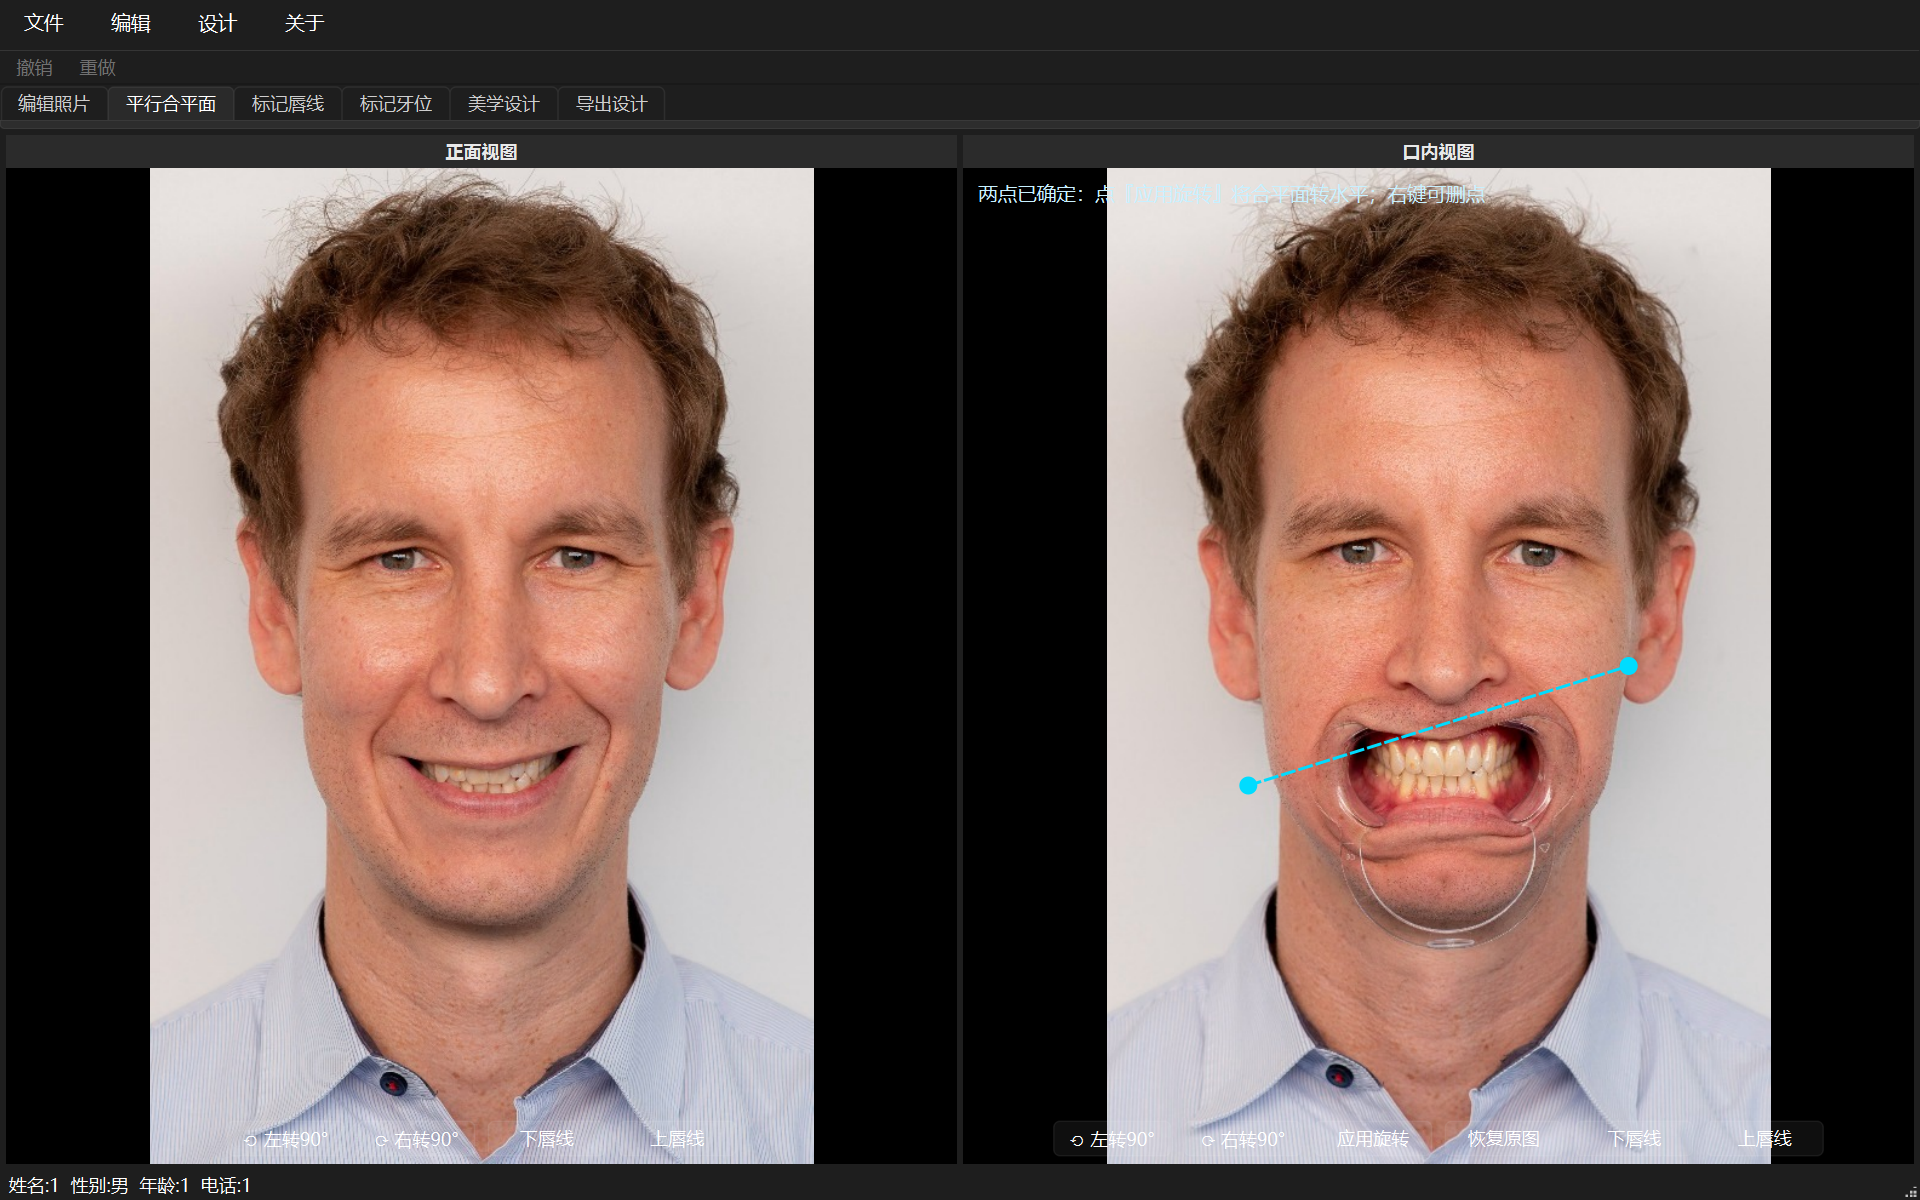
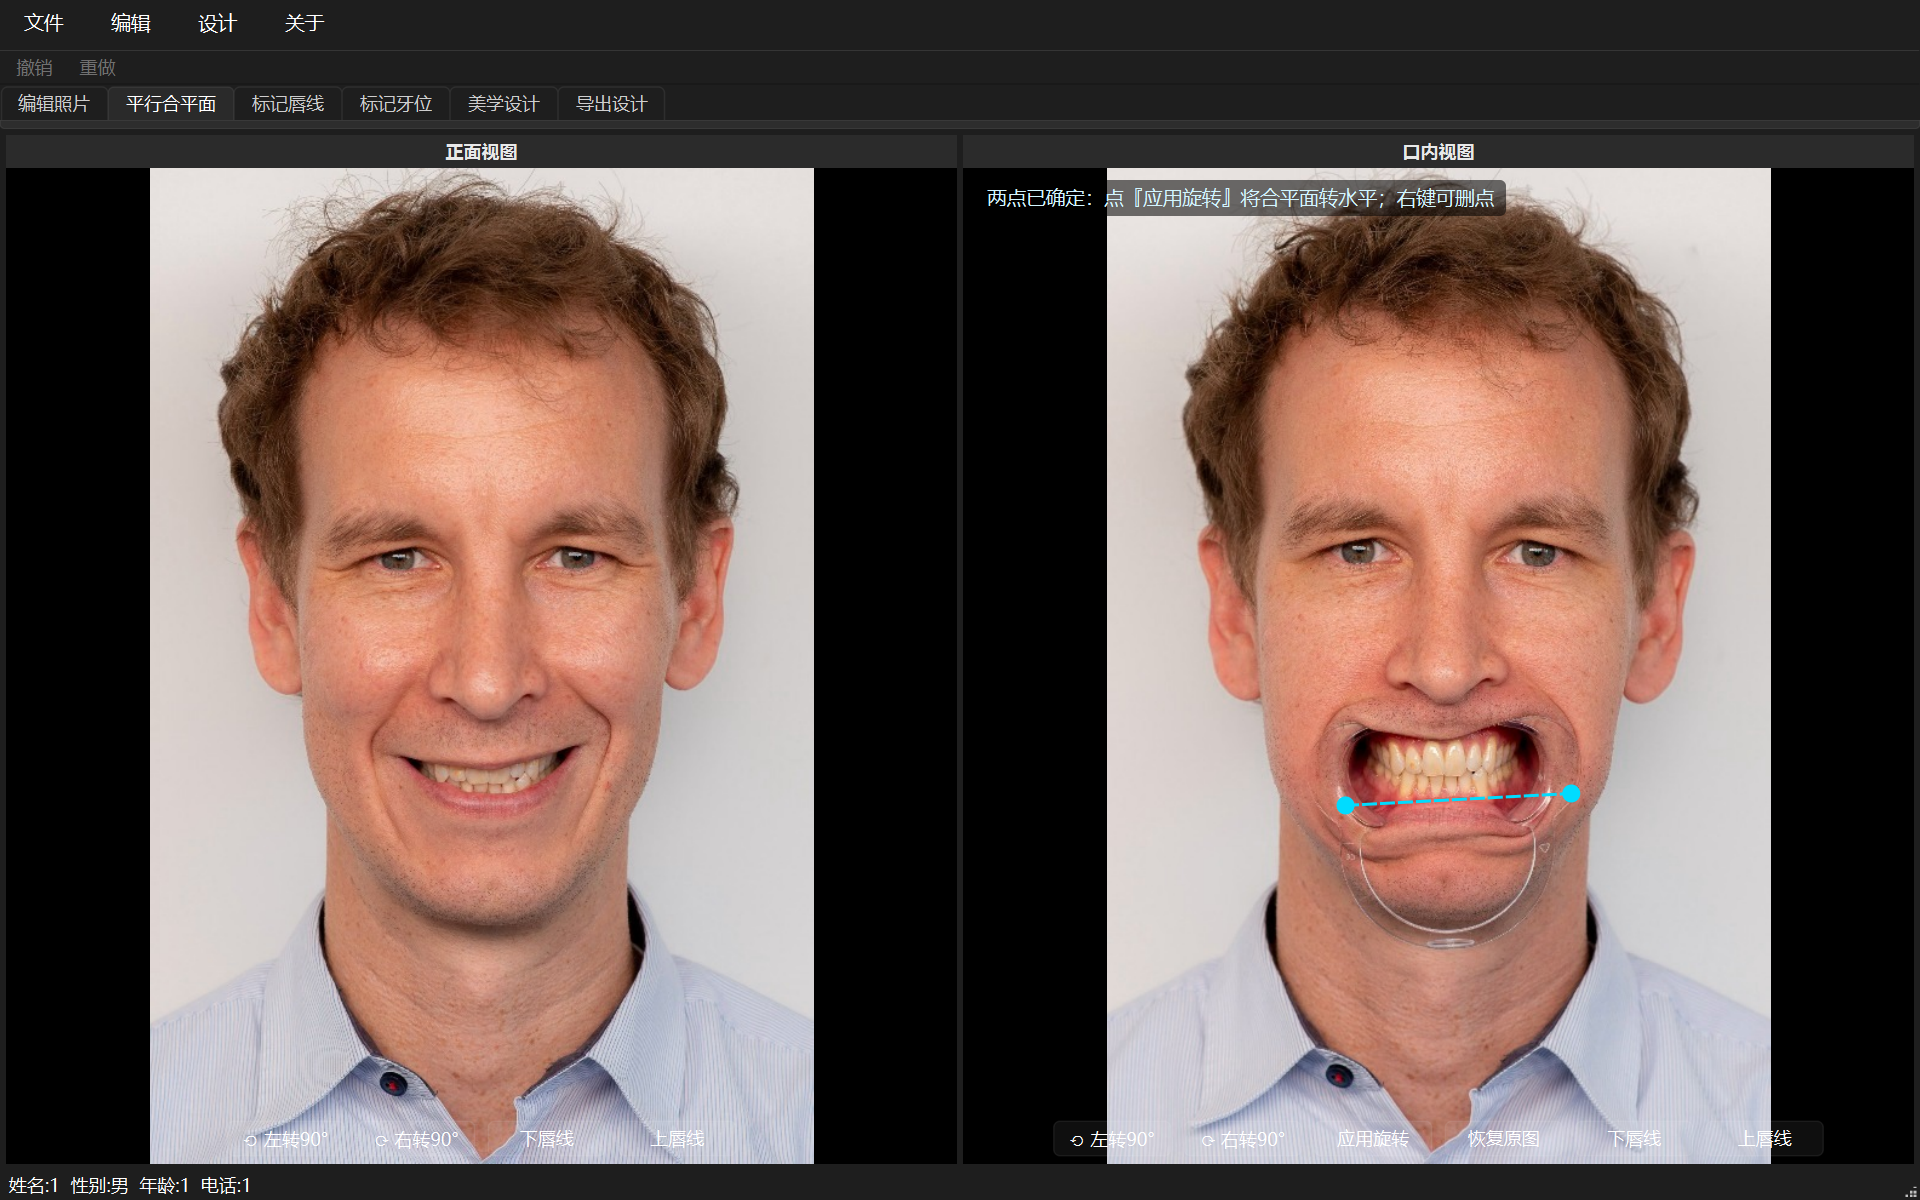
v1.7 修复应用旋转后照片变蓝（QPixmap RGB32 按 RGBA 解析导致红蓝互换，同时影响导出与检测取色）；流程示例合平面两点改为沿切缘；提示文字加底衬

diff --git a/dedd_py/dedd/widgets/main_window.py b/dedd_py/dedd/widgets/main_window.py
@@ -21,7 +21,7 @@ from PySide6.QtWidgets import (QDialog, QFileDialog, QLabel, QMainWindow,
                                QToolBar, QVBoxLayout, QWidget)
 
 from .. import constants as C
-from ..image_utils import crop, np_to_qimage, qimage_bytes, qimage_bytes_to_rgba
+from ..image_utils import crop, np_to_qimage, qimage_bytes, qimage_to_np
 from ..models import BasicInfo, ProjData, ToothData, mirror_teeth
 from ..project_io import import_depx, load_project, save_project
 from .new_project_dialog import NewProjectDialog
@@ -649,7 +649,7 @@ class MainWindow(QMainWindow):
             # 必须用原始图像分辨率做检测：render_pre_np() 是「窗口大小」的渲染结果，
             # 用它检测再按图像坐标画框会整体错位（实测框飘到眼睛/额头）
             boxes = detect_teeth_intraoral(np.ascontiguousarray(
-                qimage_bytes_to_rgba(bp.get_image())[:, :, :3]))
+                qimage_to_np(bp.get_image())[:, :, :3]))
             if boxes:
                 bp.set_marked_teeth([ToothData(site=s, x1=a, y1=b, x2=c, y2=d, length=0)
                                      for s, a, b, c, d in boxes])
@@ -659,7 +659,7 @@ class MainWindow(QMainWindow):
         fp = self.workspace.front_panel
         if fp.has_image():
             boxes = detect_teeth_front(np.ascontiguousarray(
-                qimage_bytes_to_rgba(fp.get_image())[:, :, :3]))
+                qimage_to_np(fp.get_image())[:, :, :3]))
             if boxes:
                 fp.set_marked_teeth([ToothData(site=s, x1=a, y1=b, x2=c, y2=d, length=0)
                                      for s, a, b, c, d in boxes])

diff --git a/dedd_py/dedd/widgets/unify_panel.py b/dedd_py/dedd/widgets/unify_panel.py
@@ -138,15 +138,23 @@ class UnifyPanel(QWidget):
         painter.setPen(Qt.NoPen)
         for p in self.points:
             painter.drawEllipse(p, PT_RADIUS, PT_RADIUS)
-        painter.setPen(QColor(200, 240, 255))
+        if len(self.points) == 0:
+            hint = "沿咬合平面点第 1 点（如牙列左侧）"
+        elif len(self.points) == 1:
+            hint = "沿咬合平面点第 2 点（如牙列右侧），然后点『应用旋转』"
+        else:
+            hint = "两点已确定：点『应用旋转』将合平面转水平；右键可删点"
+        from PySide6.QtCore import QRectF
         from PySide6.QtGui import QFont
         f = QFont()
         f.setPointSize(10)
         painter.setFont(f)
-        if len(self.points) == 0:
-            painter.drawText(10, 22, "沿咬合平面点第 1 点（如牙列左侧）")
-        elif len(self.points) == 1:
-            painter.drawText(10, 22, "沿咬合平面点第 2 点（如牙列右侧），然后点『应用旋转』")
-        else:
-            painter.drawText(10, 22, "两点已确定：点『应用旋转』将合平面转水平；右键可删点")
+        fm = painter.fontMetrics()
+        tw = fm.horizontalAdvance(hint)
+        box = QRectF(8, 8, tw + 16, fm.height() + 8)
+        painter.setPen(Qt.NoPen)
+        painter.setBrush(QColor(0, 0, 0, 140))      # 半透明底，避免压在照片上看不清
+        painter.drawRoundedRect(box, 4, 4)
+        painter.setPen(QColor(210, 245, 255))
+        painter.drawText(box.adjusted(8, 0, 0, 0), Qt.AlignVCenter, hint)
         painter.end()

diff --git a/dedd_py/dedd/widgets/work_panel.py b/dedd_py/dedd/widgets/work_panel.py
@@ -131,6 +131,10 @@ class WorkPanel(QWidget):
             w.setGeometry(g)
         self.button_bar.setGeometry(0, self.height() - 34, self.width(), 34)
 
+    def showEvent(self, e):
+        super().showEvent(e)
+        self._relayout_overlays()      # 首次显示时对齐覆盖层，避免提示文字压到标题条
+
     def _rotate(self, direction: str):
         img = self.image_view.get_image()
         if img is None:
@@ -365,7 +369,10 @@ class WorkPanel(QWidget):
                 if w.isVisible():
                     w.render(p, QPoint(0, 0))
         p.end()
-        img = pm.toImage()
+        from PySide6.QtGui import QImage
+        # QPixmap.toImage() 默认是 Format_RGB32（内存里是 BGRA），
+        # 直接按 RGBA 读会把红蓝互换（照片变蓝、检测也偏），这里统一转 RGB888
+        img = pm.toImage().convertToFormat(QImage.Format_RGB888)
         arr = qimage_bytes_to_rgba(img)
         rect = self.image_view.draw_rect()
         if rect.width() <= 1 or rect.height() <= 1:

diff --git a/dedd_py/dedd/export_render.py b/dedd_py/dedd/export_render.py
@@ -21,7 +21,7 @@ from typing import List, Optional, Sequence, Tuple
 import numpy as np
 from PIL import Image, ImageDraw, ImageFont
 
-from .image_utils import adjust_bright_yellow, qimage_bytes_to_rgba
+from .image_utils import adjust_bright_yellow, qimage_to_np
 from .teeth_templates import get_template
 from .widgets.adjust_panel import MODE_NONE, MODE_REAL
 
@@ -57,7 +57,9 @@ def view_before(panel) -> Optional[np.ndarray]:
     img = panel.get_image()
     if img is None or img.isNull():
         return None
-    arr = qimage_bytes_to_rgba(img)
+    arr = qimage_to_np(img)
+    if arr is None:
+        return None
     return np.ascontiguousarray(arr[:, :, :3])
 
 
@@ -77,7 +79,7 @@ def view_after(panel) -> Optional[np.ndarray]:
         tpl = get_template(it.site, kind)
         if tpl is None:
             continue
-        tpl_arr = qimage_bytes_to_rgba(tpl)
+        tpl_arr = qimage_to_np(tpl)
         if tpl_arr is None or tpl_arr.size == 0:
             continue
         rgb = tpl_arr[:, :, :3]

diff --git a/dedd_py/_demo_flow.py b/dedd_py/_demo_flow.py
@@ -41,11 +41,12 @@ shot("step01_编辑照片.png")
 w.tabs.setCurrentIndex(1)
 app.processEvents()
 bp = w.workspace.base_panel
-# 模拟沿合平面点两点（视图坐标，口内图 548x822 显示于视口）
-wpx = bp.image_view.width()
-hp = bp.image_view.height()
-bp.unify_panel.points = [QPointF(wpx * 0.30, hp * 0.62), QPointF(wpx * 0.70, hp * 0.50)]
-bp.unify_panel.img_points = [bp.unify_panel._to_img(p) for p in bp.unify_panel.points]
+# 沿「切缘连线」点两点（图像坐标 → 视图坐标），演示把合平面转水平
+_img = bp.get_image()
+iw_px, ih_px = _img.width(), _img.height()
+img_pts = [QPointF(iw_px * 0.360, ih_px * 0.640), QPointF(iw_px * 0.700, ih_px * 0.628)]
+bp.unify_panel.img_points = img_pts
+bp.unify_panel.points = [bp.image_view.to_view(p.x(), p.y()) for p in img_pts]
 shot("step02_平行合平面_两点.png")
 bp.apply_unify_rotation()
 app.processEvents()

diff --git a/dedd_py/dedd/constants.py b/dedd_py/dedd/constants.py
@@ -3,7 +3,7 @@
 
 APP_NAME = "数字化美学牙科分析与设计"
 APP_NAME_EN = "Digital Esthetic Dentistry Design System (Python)"
-VERSION = "v1.6"
+VERSION = "v1.7"
 
 PROJ_FILE_SUFFIX = "deddp"          # 本程序的项目文件后缀
 DEPX_SUFFIX = "depx"                # 原 Java 版项目文件后缀（可导入）

diff --git a/dedd_py/更新日志.md b/dedd_py/更新日志.md
@@ -6,6 +6,15 @@
 
 ---
 
+## [2026-10-31] v1.7 修复「应用旋转后照片变蓝」+ 流程示例合平面两点改为沿切缘
+
+- **修复（重要）**：`WorkPanel.render_to_np()` 从 `QPixmap.toImage()` 取字节时，默认格式是 `Format_RGB32`（内存里是 BGRA），却按 RGBA 解析 → **红蓝互换**。后果：①「应用旋转」后口内照片整张发蓝；② 导出图颜色偏冷；③ AI 检测拿到的颜色是错的（也会影响亮度/饱和度判断）。现在统一 `convertToFormat(RGB888)` 后再取字节；`export_render`、`detect_teeth` 改用 `qimage_to_np()`（内部已转 RGBA8888）
+- **修复**：流程示例 step02 的两点原来是随便写的视图坐标（斜着跨脸），现改为**沿前牙切缘连线**取两点（图像坐标 → 视图坐标换算），旋转幅度 ~3°，示例看起来才是正确的「合平面转水平」
+- **改进**：合平面提示文字加了半透明黑底 + 圆角，不再压在照片/标题上看不清；`WorkPanel` 首次显示时补一次覆盖层对齐（`showEvent`）
+- **验证**：`render_pre_np()` 通道均值 [144,154,186] → [186,154,144]（R>B，肤色正常）；重跑流程示例 7 张，step02b 颜色正常、旋转幅度自然；UI 冒烟测试（流程/导出）PASS
+
+---
+
 ## [2026-10-31] v1.6 修复 AI 检测整体错位（根因）+ 项目图像偏蓝 + 正面笑线对齐
 
 - **修复（根因，重要）**：AI 检测原来用 `panel.render_pre_np()` 取图——那是「按窗口大小渲染」的位图，检测出的坐标却被当成**原图像素坐标**使用，于是框整体错位（实测：口内照的框飘到眼睛/额头）。现在改用原图（`get_image()` → numpy）检测，框与牙齿对齐
